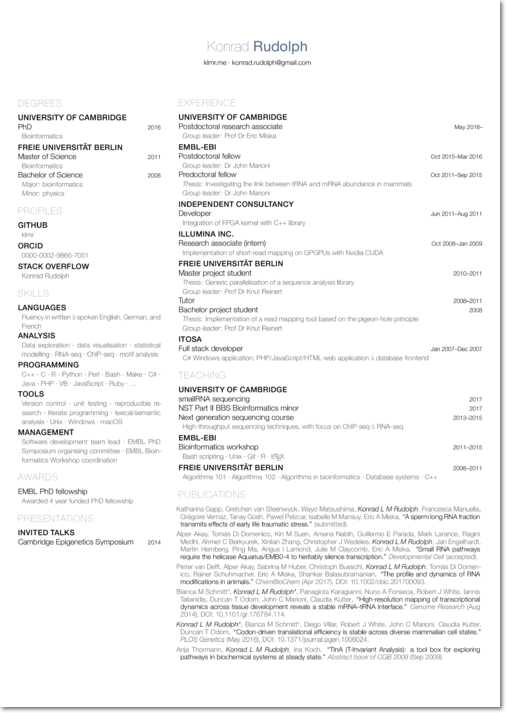
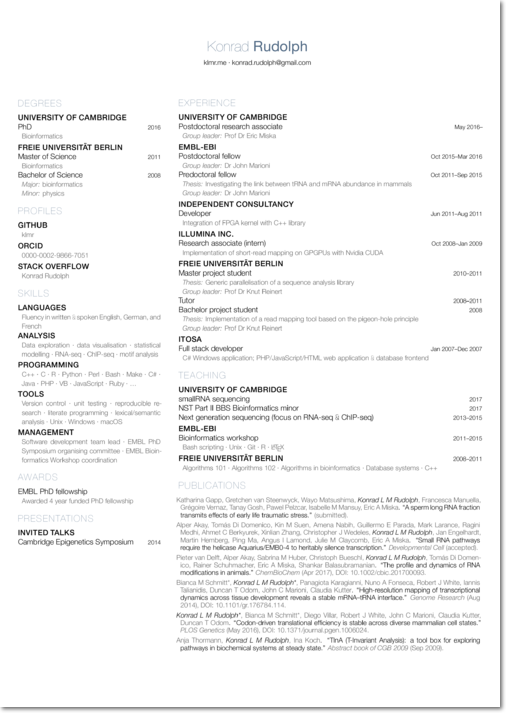
Merge course details

Changed region(s): [[0.3261, 0.5554, 0.9486, 0.9257]]

diff --git a/klmr-cv.tex b/klmr-cv.tex
@@ -154,9 +154,8 @@
 
 \entry{NST Part II BBS Bioinformatics minor\date{2017}}
 
-\entry{Next generation sequencing course\date{2013--2015}}
-\details{High-throughput sequencing techniques, with focus on ChIP-seq \&
-    RNA-seq}
+\entry{Next generation sequencing (focus on RNA-seq \& ChIP-seq)
+    \date{2013--2015}}
 
 \subsection{EMBL-EBI}
 \entry{Bioinformatics workshop\date{2011--2015}}
